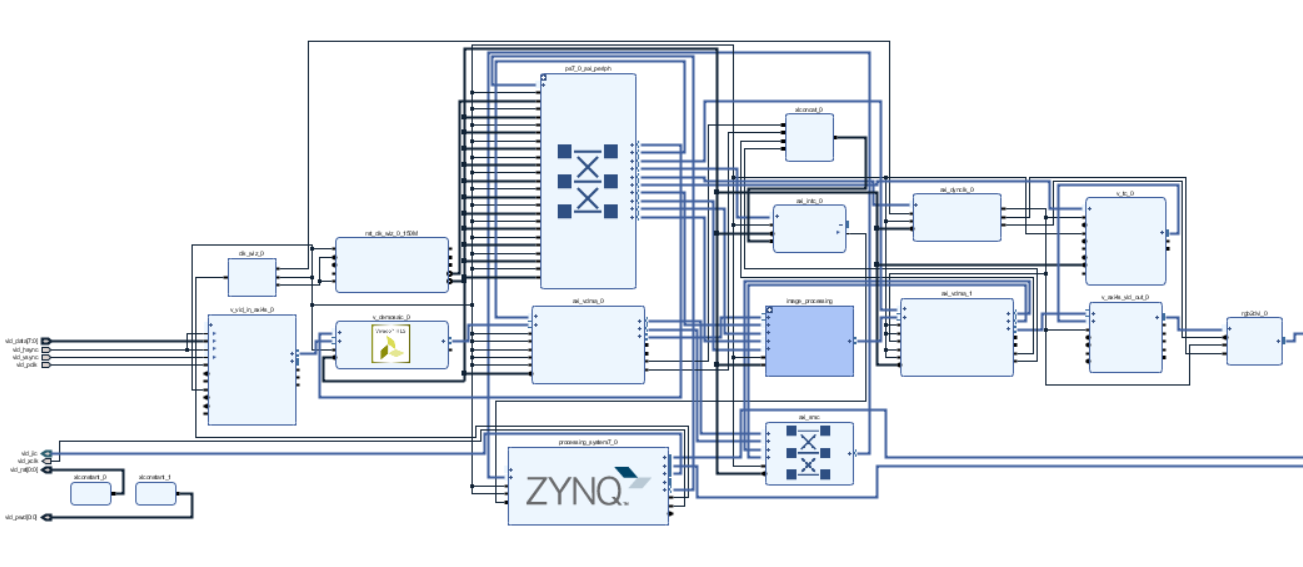
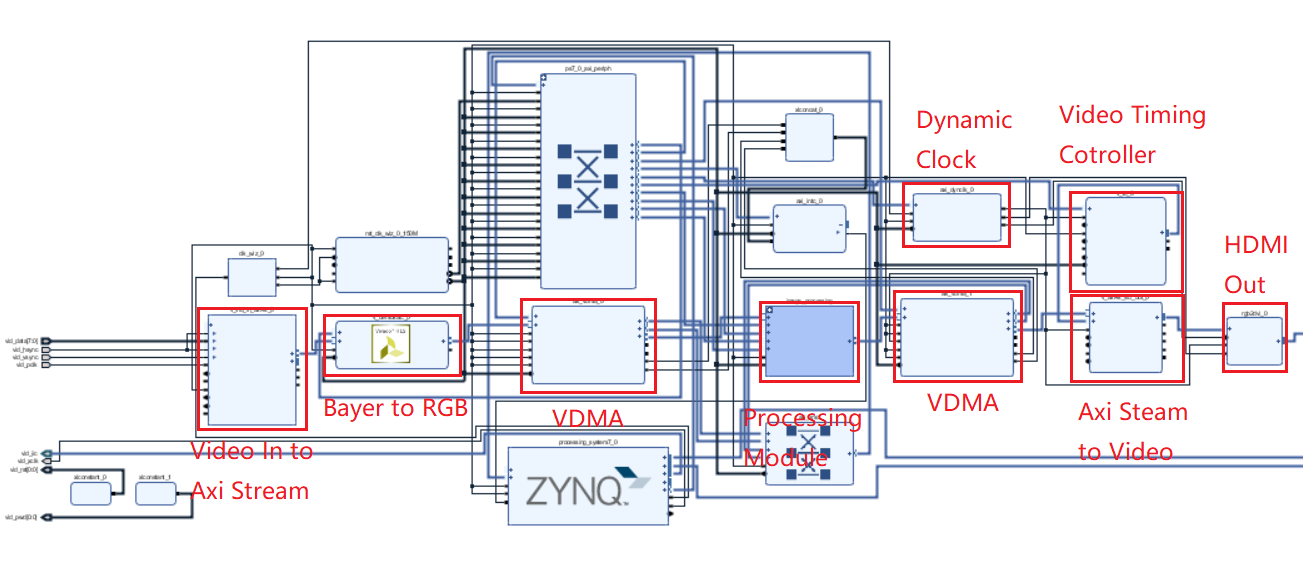
Update Readme
Update Readme

diff --git a/README.md b/README.md
@@ -1,7 +1,8 @@
 # Zynq-7000-Video-Overlay
 
 ## 系统简介
-该通路实现了
+该系统实现了Zynq-7000系列FPGA的摄像头输入、HDMI输出通路，并使用HLS编写处理IP，对输入的720p、30
+fps视频进行实时的处理显示。
 
 ## 软件需求
 * Vivado&reg; Design Suite 2018.2
@@ -33,13 +34,23 @@
 后通过 VDMA 将帧缓存送入 HLS 编写的处理 IP 进行处理后再存入 VDMA，并将帧缓存
 转为 HDMI 信号输出显示，其中裸机程序在 SDK 中编写。
 
+![channel_bd](images/channel_bd.png)
+
 ### 图像处理模块
 使用HLS及xfOpenCV编写图像处理IP，添加到输入和输出VMDA之间，对Axi Stream协议的数据进行处理。该系统添加了原图、Resize、Sobel-X和Sobel-Y四个数据通路，可以在SDK中编写程序进行切换。
 
-## 展示效果
-效果可以参考result.mp4
+![processing_bd](images/processing_bd.png)
 
-## 参考
-1. 
+## 使用指南
+1. 在 *prebuilt* 提供制作好的 *BOOT.bin* 的启动文件，配置好硬件之后，将 *BOOT.bin* 拷贝至SD卡中即可运行。
+2. 也可以使用 *Vivado 2018.2* 打开工程，生成bitstream，在SDK中运行程序。
+
+## 运行效果
+运行效果可以参考*result.mp4*。
+
+## 参考资料
+1. [PYNQ-Z2 Base Overlay](https://pynq.readthedocs.io/en/latest/pynq_overlays/pynqz2/pynqz2_base_overlay.html)
+
+2. [cv2pynq](https://github.com/wbrueckner/cv2pynq)
 
 ## TODO
